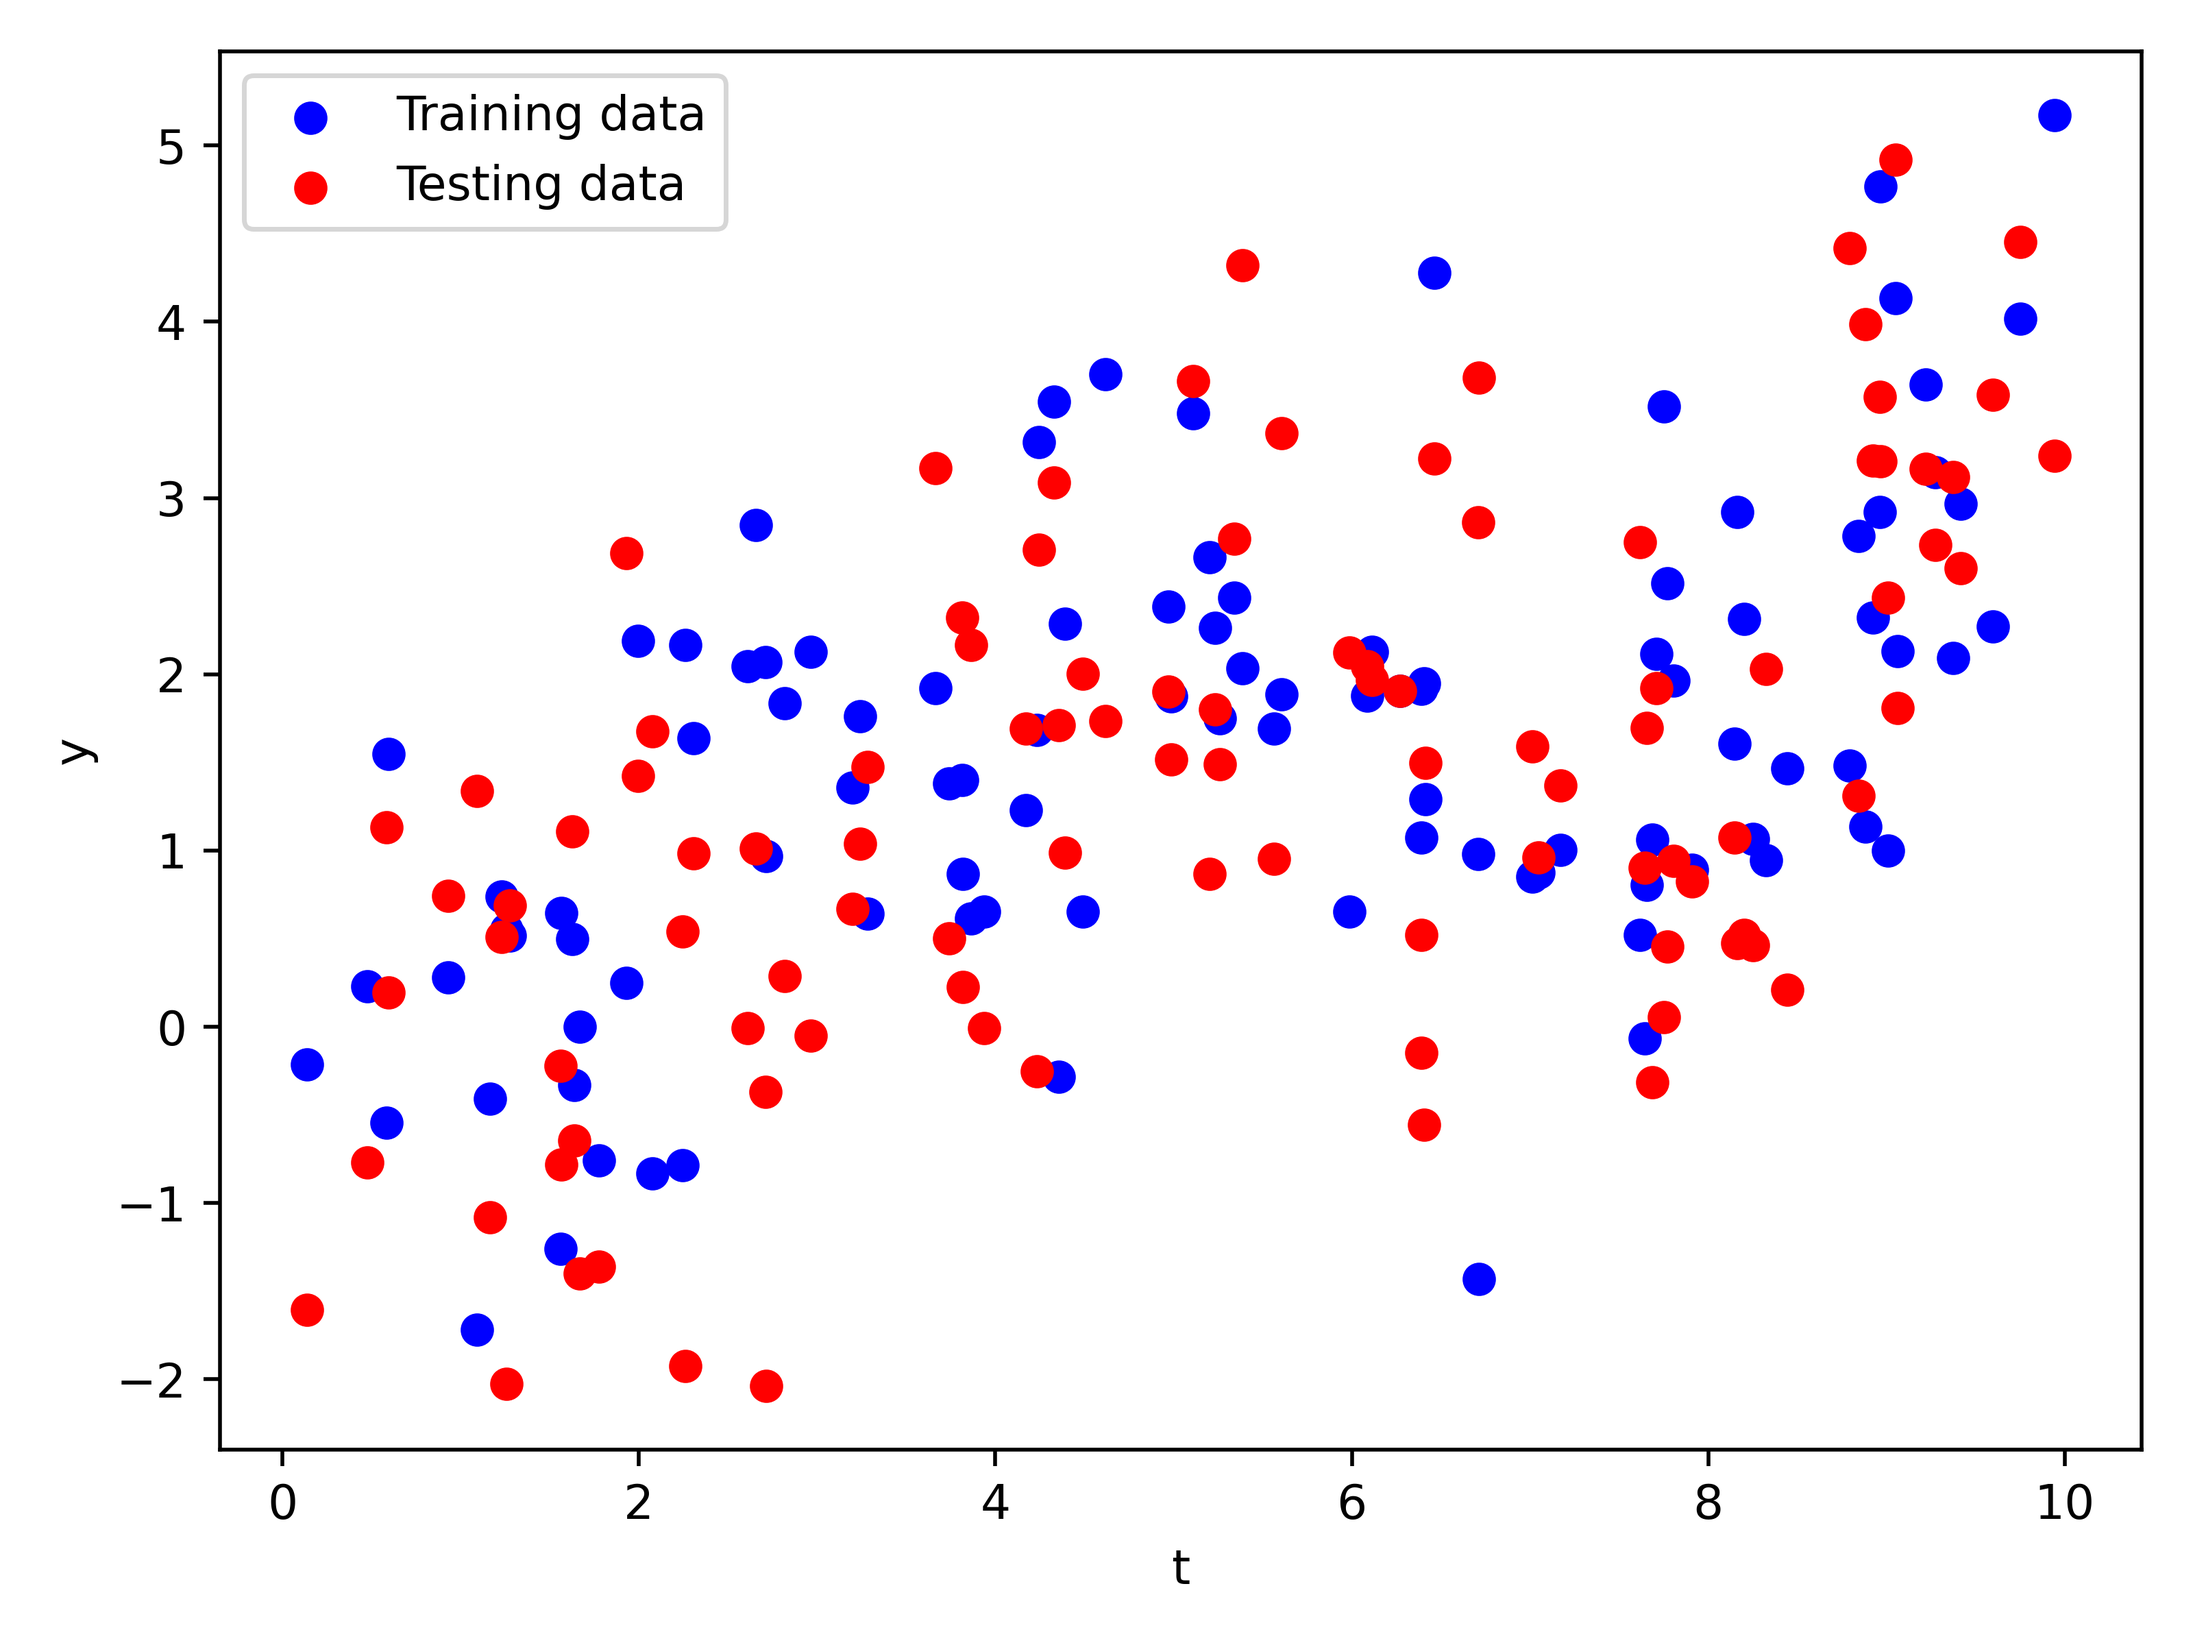
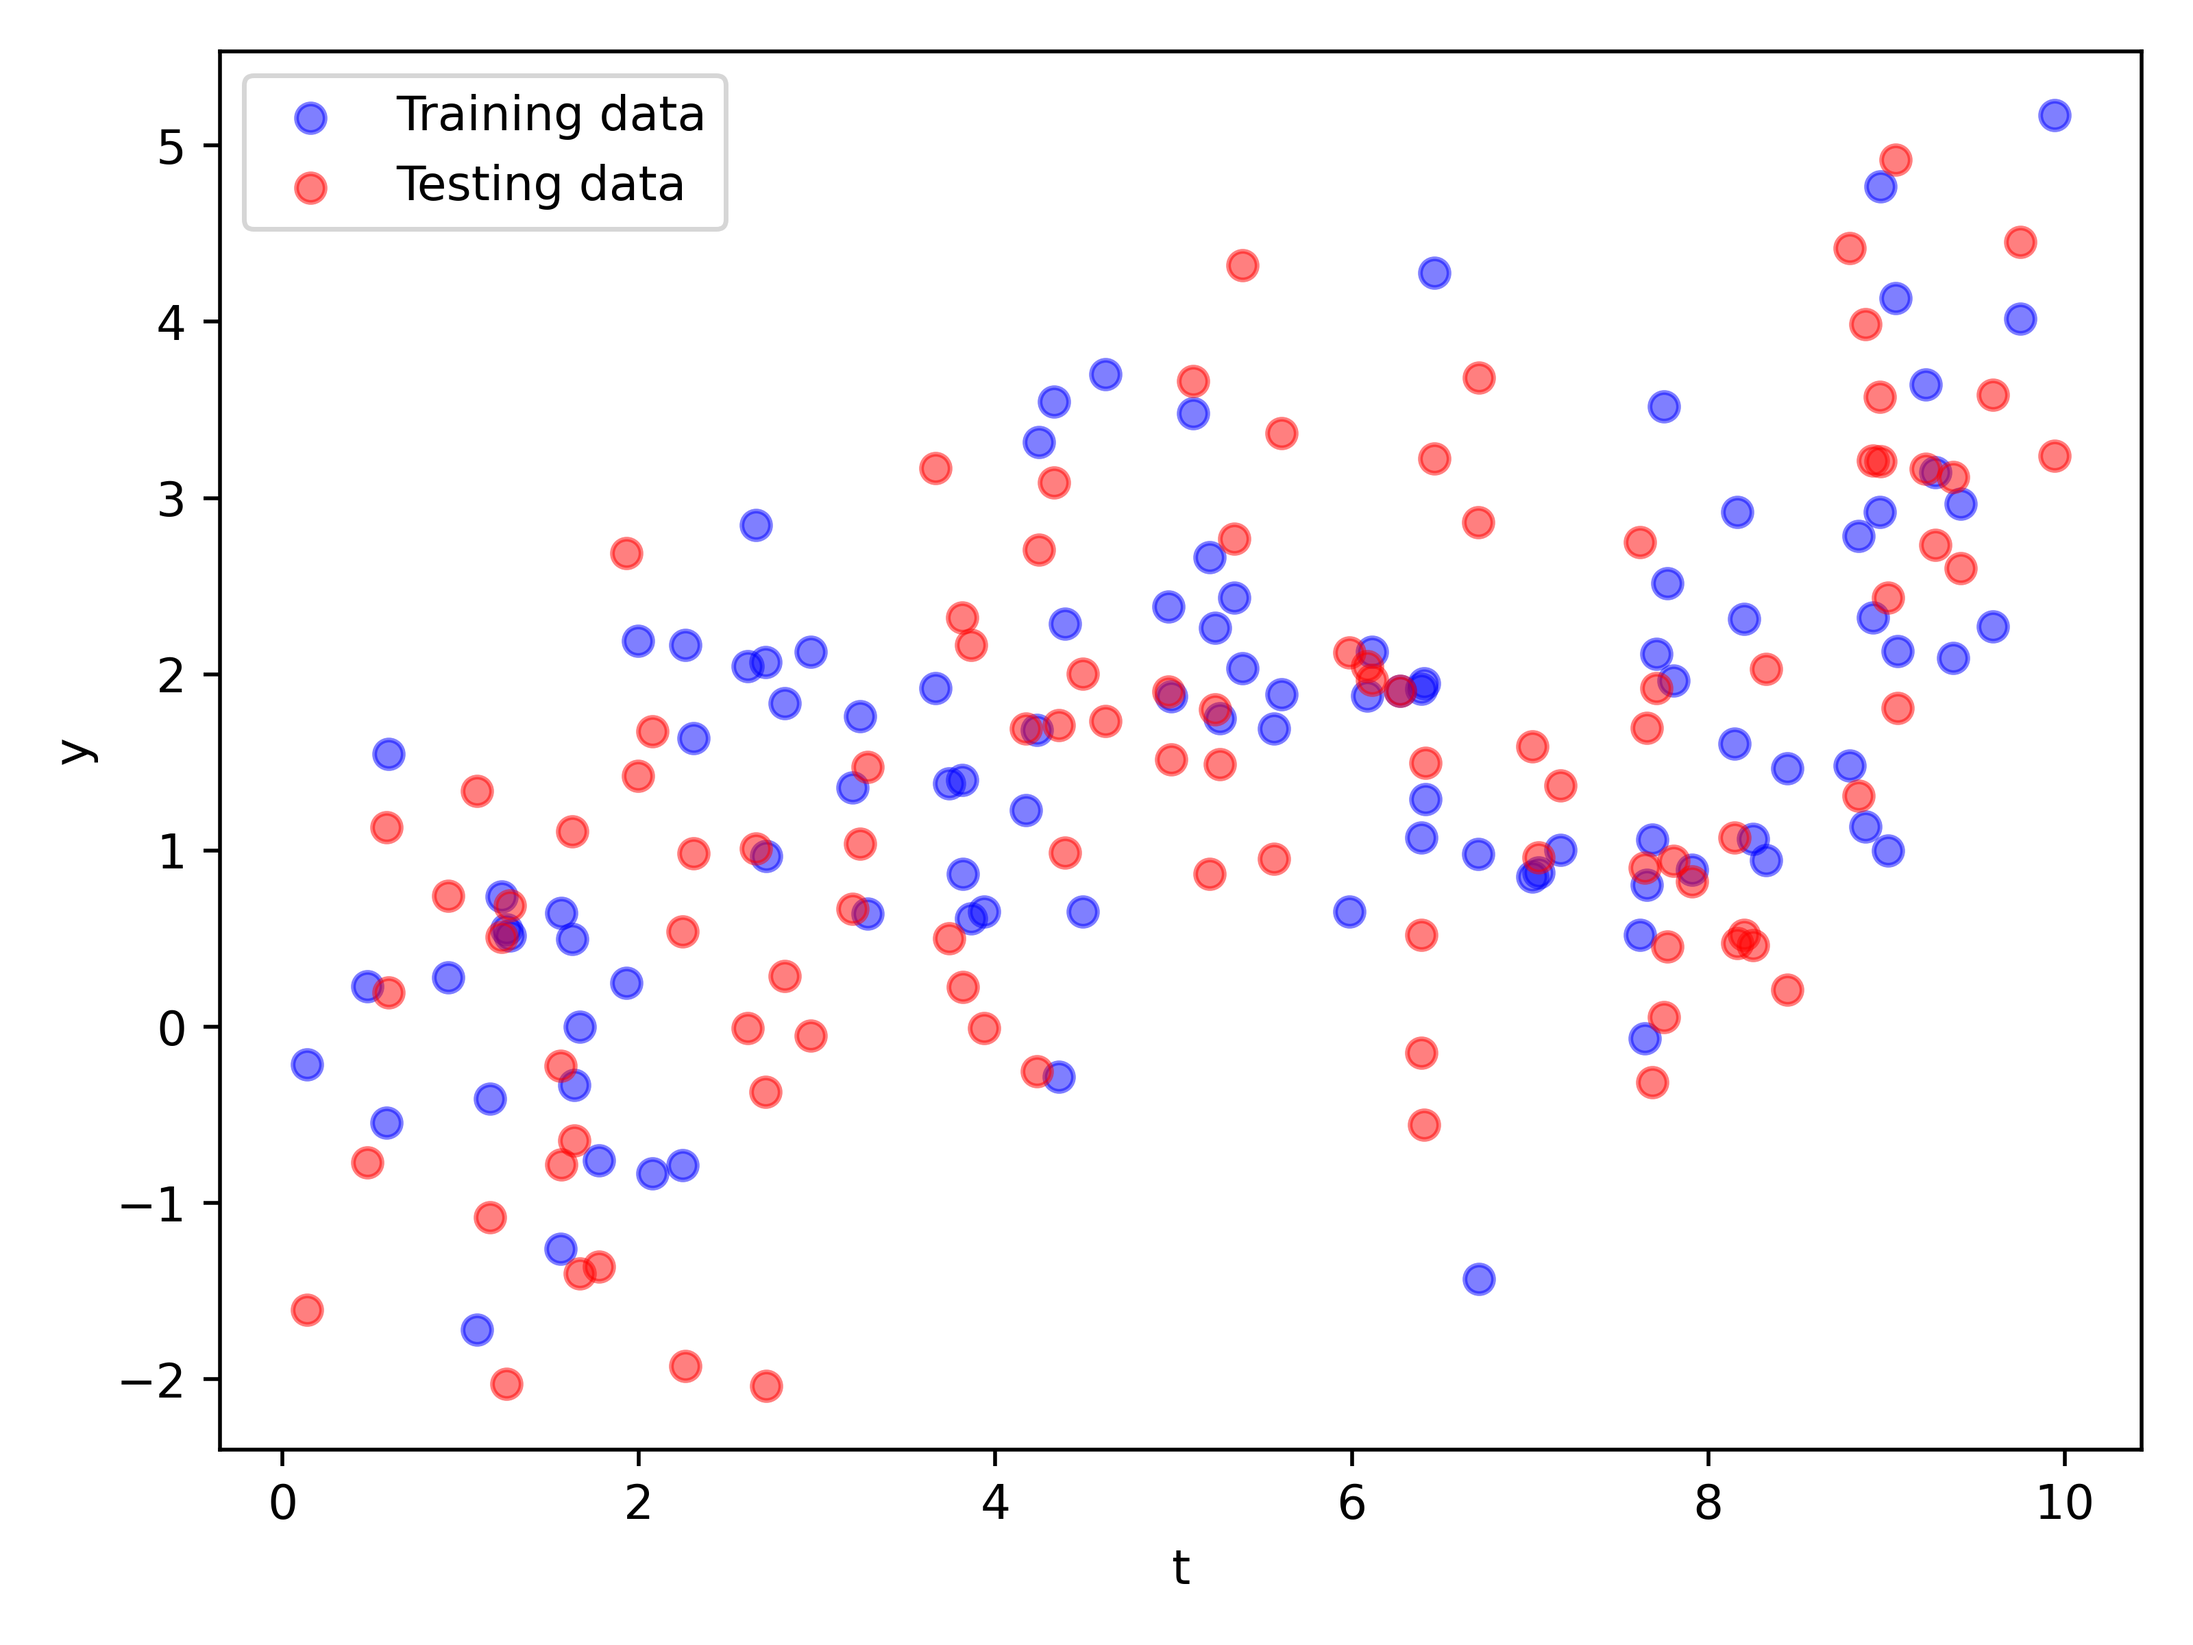
polyplot

diff --git a/sheet_5/data_fit.py b/sheet_5/data_fit.py
@@ -1,6 +1,7 @@
 import csv
 import numpy as np
 from matplotlib import pyplot as plt
+import scipy.optimize as opt
 
 train_t, train_y = [], []
 test_t, test_y = [], []
@@ -19,11 +20,25 @@ with open("./data/test.csv", "r") as test_data_file:
             test_t.append(float(row[0]))
             test_y.append(float(row[1]))
 
+# a
 fig, ax = plt.subplots(dpi=500)
-ax.scatter(train_t, train_y, c="blue", marker="o", label="Training data")
-ax.scatter(test_t, test_y, c="red", marker="o", label="Testing data")
+ax.scatter(train_t, train_y, c="blue", marker="o", label="Training data", alpha=.5)
+ax.scatter(test_t, test_y, c="red", marker="o", label="Testing data", alpha=.5)
 ax.set(xlabel="t", ylabel="y")
 ax.legend()
 
 fig.tight_layout()
 fig.savefig("./figures/data.png")
+
+
+# c
+empirical_risk_values = []
+for k in range(11):
+    empirical_risk_values.append(np.polyfit(train_t, train_y, k, full=True)[1][0] / len(train_t))
+
+fig, ax = plt.subplots(dpi=500)
+ax.plot(range(11), empirical_risk_values)
+ax.set(xlabel="Order k", ylabel="Empirical risk", xticks=range(11))
+
+fig.tight_layout()
+fig.savefig("./figures/empirical_risk.png")
